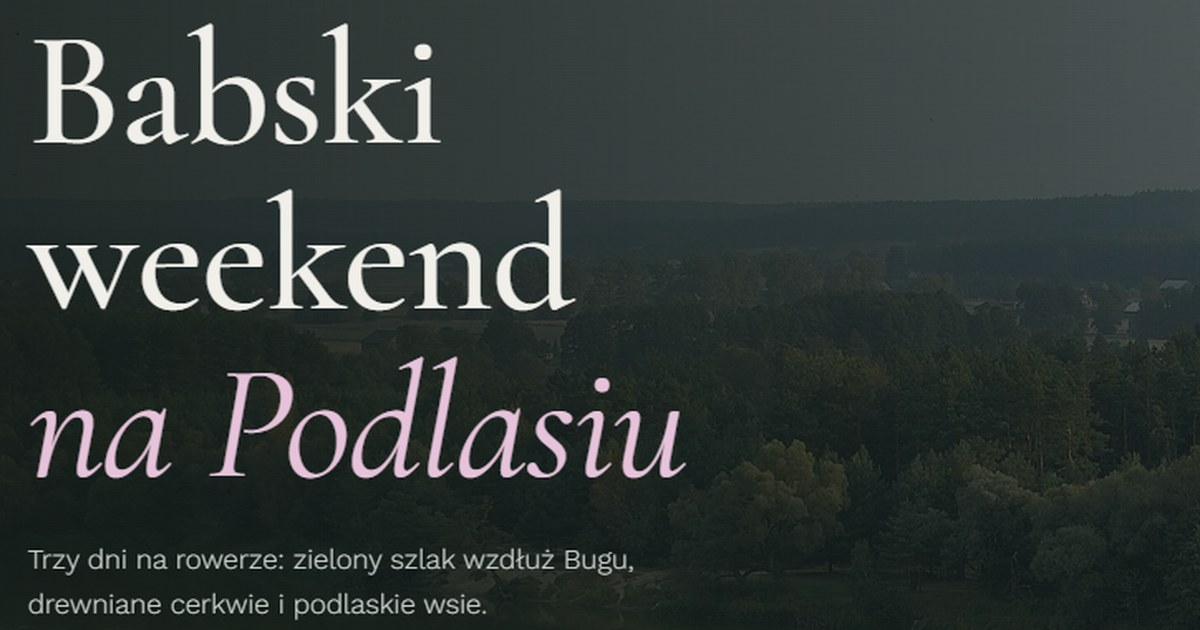
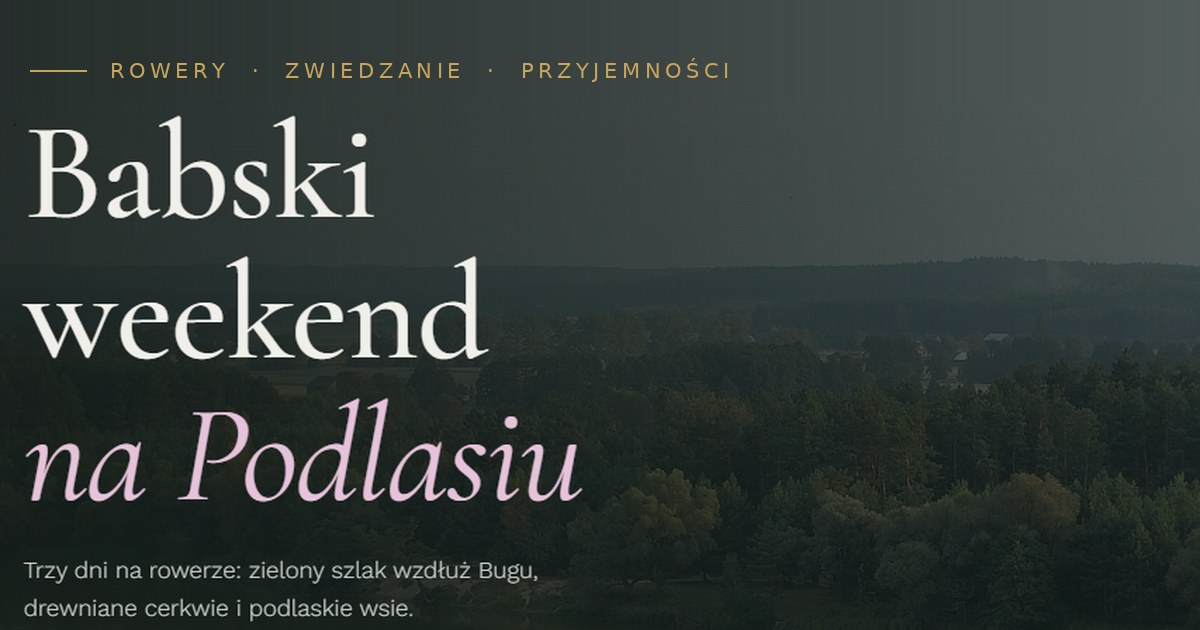
Podgląd linku: Rowery · Zwiedzanie · Przyjemności (og2.jpg)
Claude-Session: https://claude.ai/code/session_01Fs8DMfaFseiH1oPaZbHYNy

diff --git a/index.html b/index.html
@@ -6,21 +6,21 @@
 <meta name="robots" content="noindex,nofollow">
 <title>Babski weekend na Podlasiu</title>
 <link rel="canonical" href="https://powergirlai.github.io/dreptak-podlasie/">
-<meta property="og:image:secure_url" content="https://powergirlai.github.io/dreptak-podlasie/og.jpg">
+<meta property="og:image:secure_url" content="https://powergirlai.github.io/dreptak-podlasie/og2.jpg">
 <meta property="og:image:type" content="image/jpeg">
-<link rel="image_src" href="https://powergirlai.github.io/dreptak-podlasie/og.jpg">
+<link rel="image_src" href="https://powergirlai.github.io/dreptak-podlasie/og2.jpg">
 <meta name="description" content="20–22 listopada 2026. Rowerem zielonym szlakiem Czeremcha – Siemiatycze (58,5 lub 117 km), drewniane cerkwie i Bug. Trasy, noclegi, koszty i zgłoszenia.">
 <meta property="og:type" content="website">
 <meta property="og:locale" content="pl_PL">
-<meta property="og:title" content="Babski weekend na Podlasiu · 20–22.11.2026">
+<meta property="og:title" content="Babski weekend na Podlasiu · Rowery · Zwiedzanie · Przyjemności">
 <meta property="og:description" content="20–22 listopada 2026. Rowerem zielonym szlakiem Czeremcha – Siemiatycze (58,5 lub 117 km), drewniane cerkwie i Bug. Trasy, noclegi, koszty i zgłoszenia.">
 <meta property="og:url" content="https://powergirlai.github.io/dreptak-podlasie/">
-<meta property="og:image" content="https://powergirlai.github.io/dreptak-podlasie/og.jpg">
+<meta property="og:image" content="https://powergirlai.github.io/dreptak-podlasie/og2.jpg">
 <meta property="og:image:width" content="1200">
 <meta property="og:image:height" content="630">
 <meta property="og:image:alt" content="Babski weekend na Podlasiu">
 <meta name="twitter:card" content="summary_large_image">
-<meta name="twitter:image" content="https://powergirlai.github.io/dreptak-podlasie/og.jpg">
+<meta name="twitter:image" content="https://powergirlai.github.io/dreptak-podlasie/og2.jpg">
 <style>:root{color-scheme:light;padding-top:env(safe-area-inset-top);padding-bottom:env(safe-area-inset-bottom)}body{margin:0;font-family:system-ui,sans-serif;font-size:14px}img{max-width:100%}[hidden]{display:none!important}</style>
 </head>
 <body>
@@ -370,7 +370,7 @@ footer a{color:var(--heather)}
   <div class="hero-shade" aria-hidden="true"></div>
   <p class="hero-credit" id="heroCredit"></p>
   <div class="wrap">
-    <div class="trailtag">Rowerowy weekend · 20–22 listopada 2026</div>
+    <div class="trailtag">Rowery · Zwiedzanie · Przyjemności</div>
     <h1>Babski weekend <em>na Podlasiu</em></h1>
     <p class="sub">Trzy dni na rowerze: zielony szlak wzdłuż Bugu, drewniane cerkwie i podlaskie wsie.</p>
     <dl class="facts">
